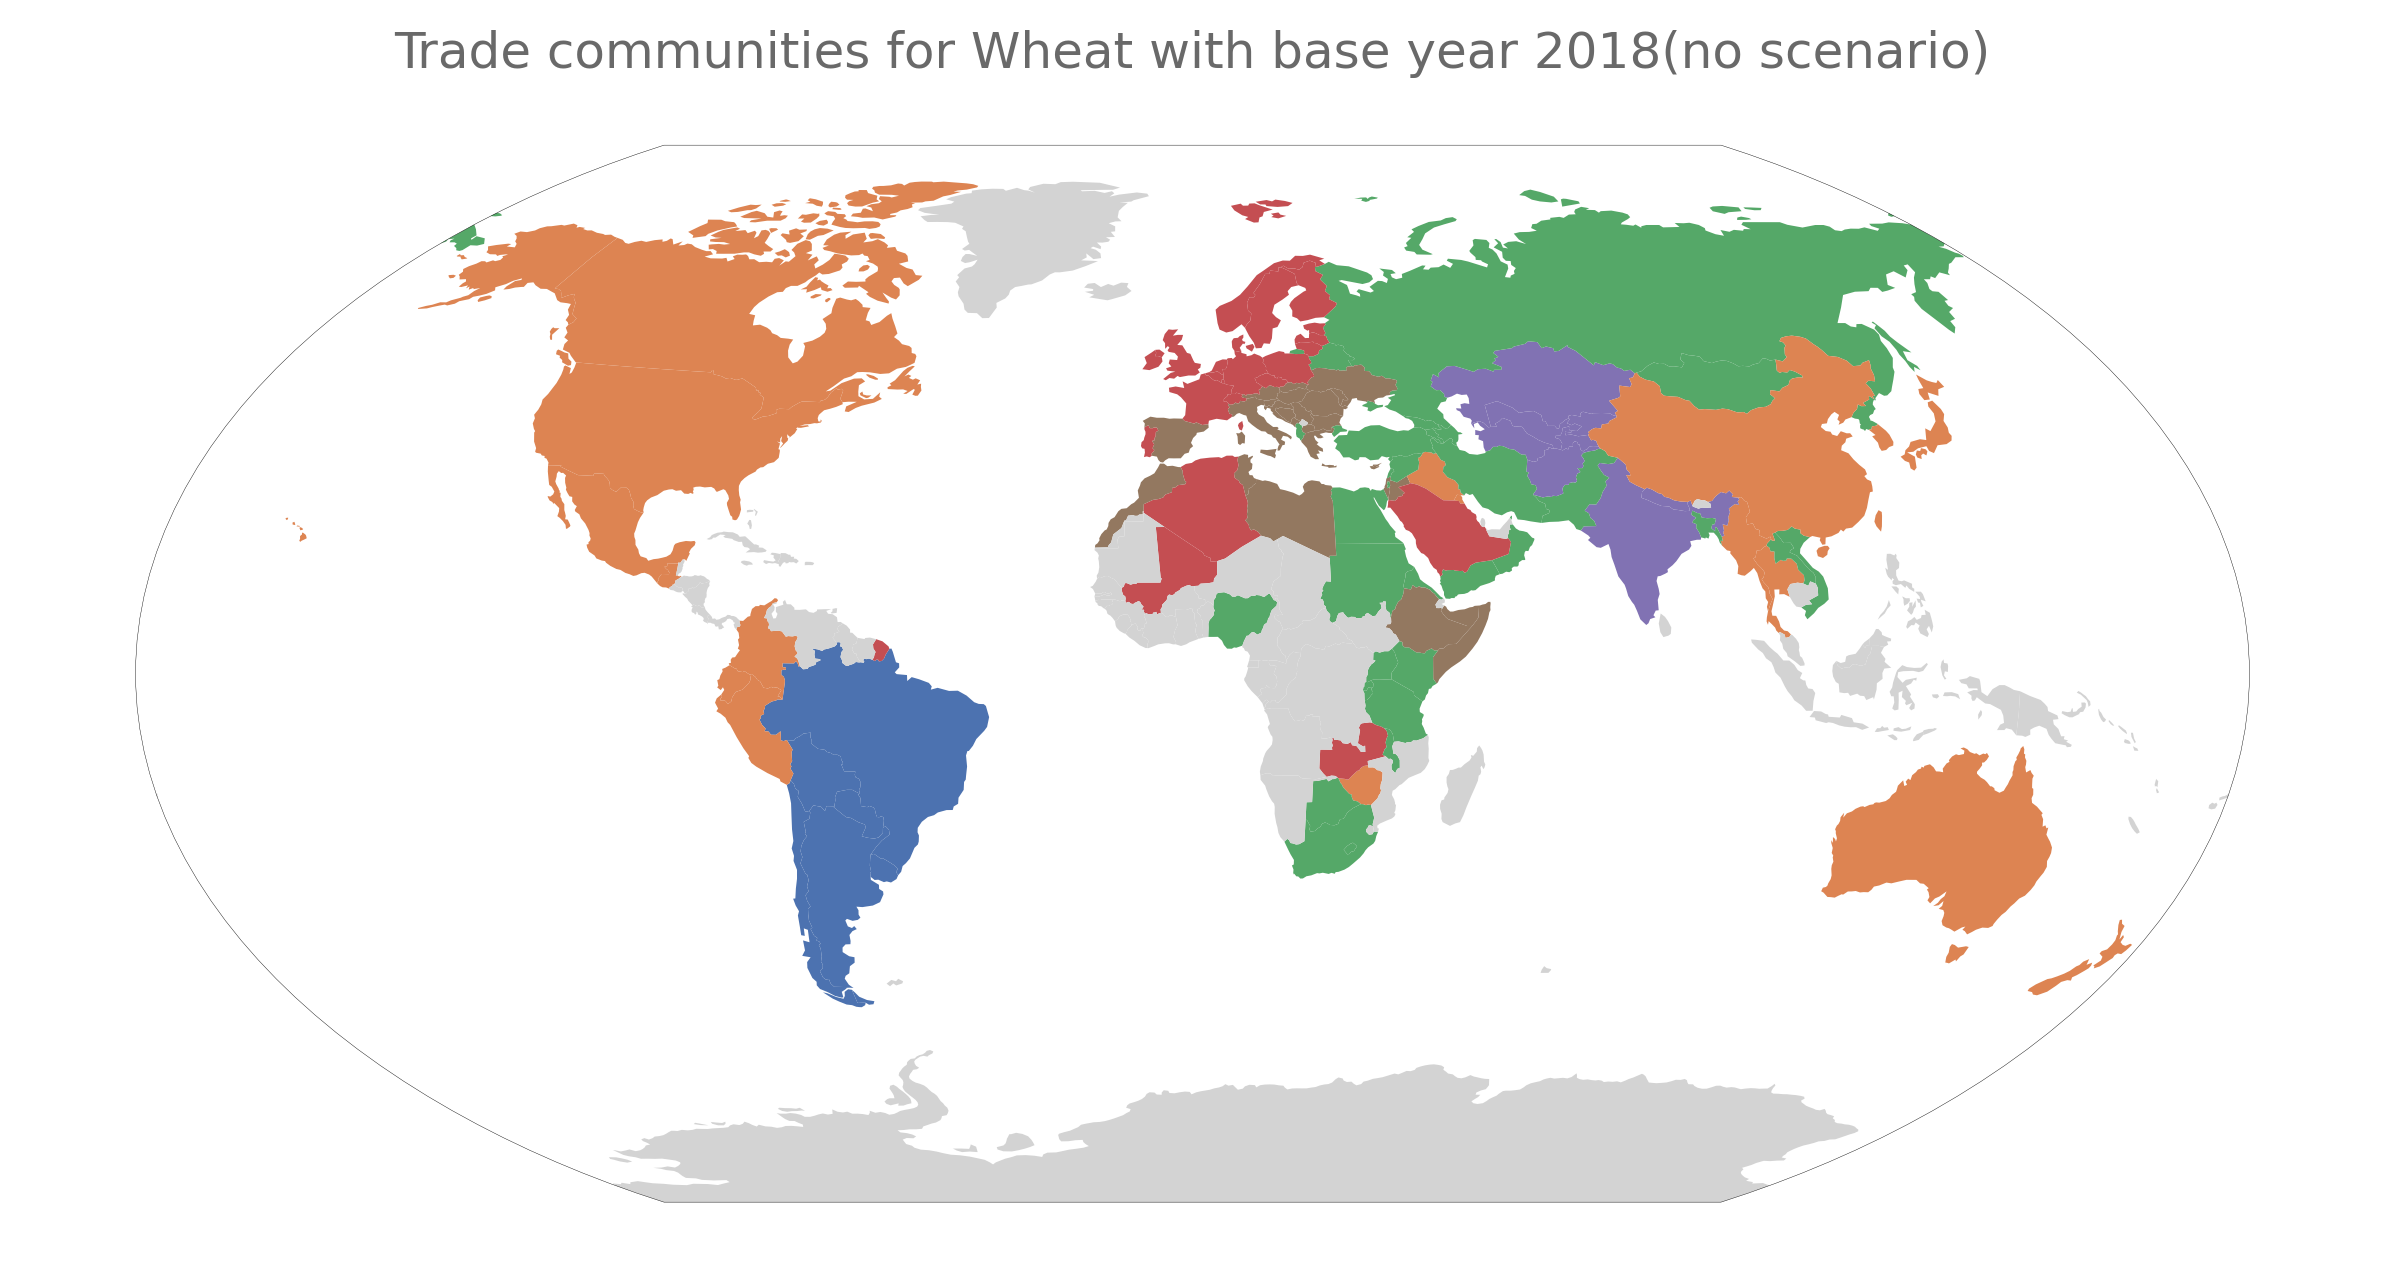
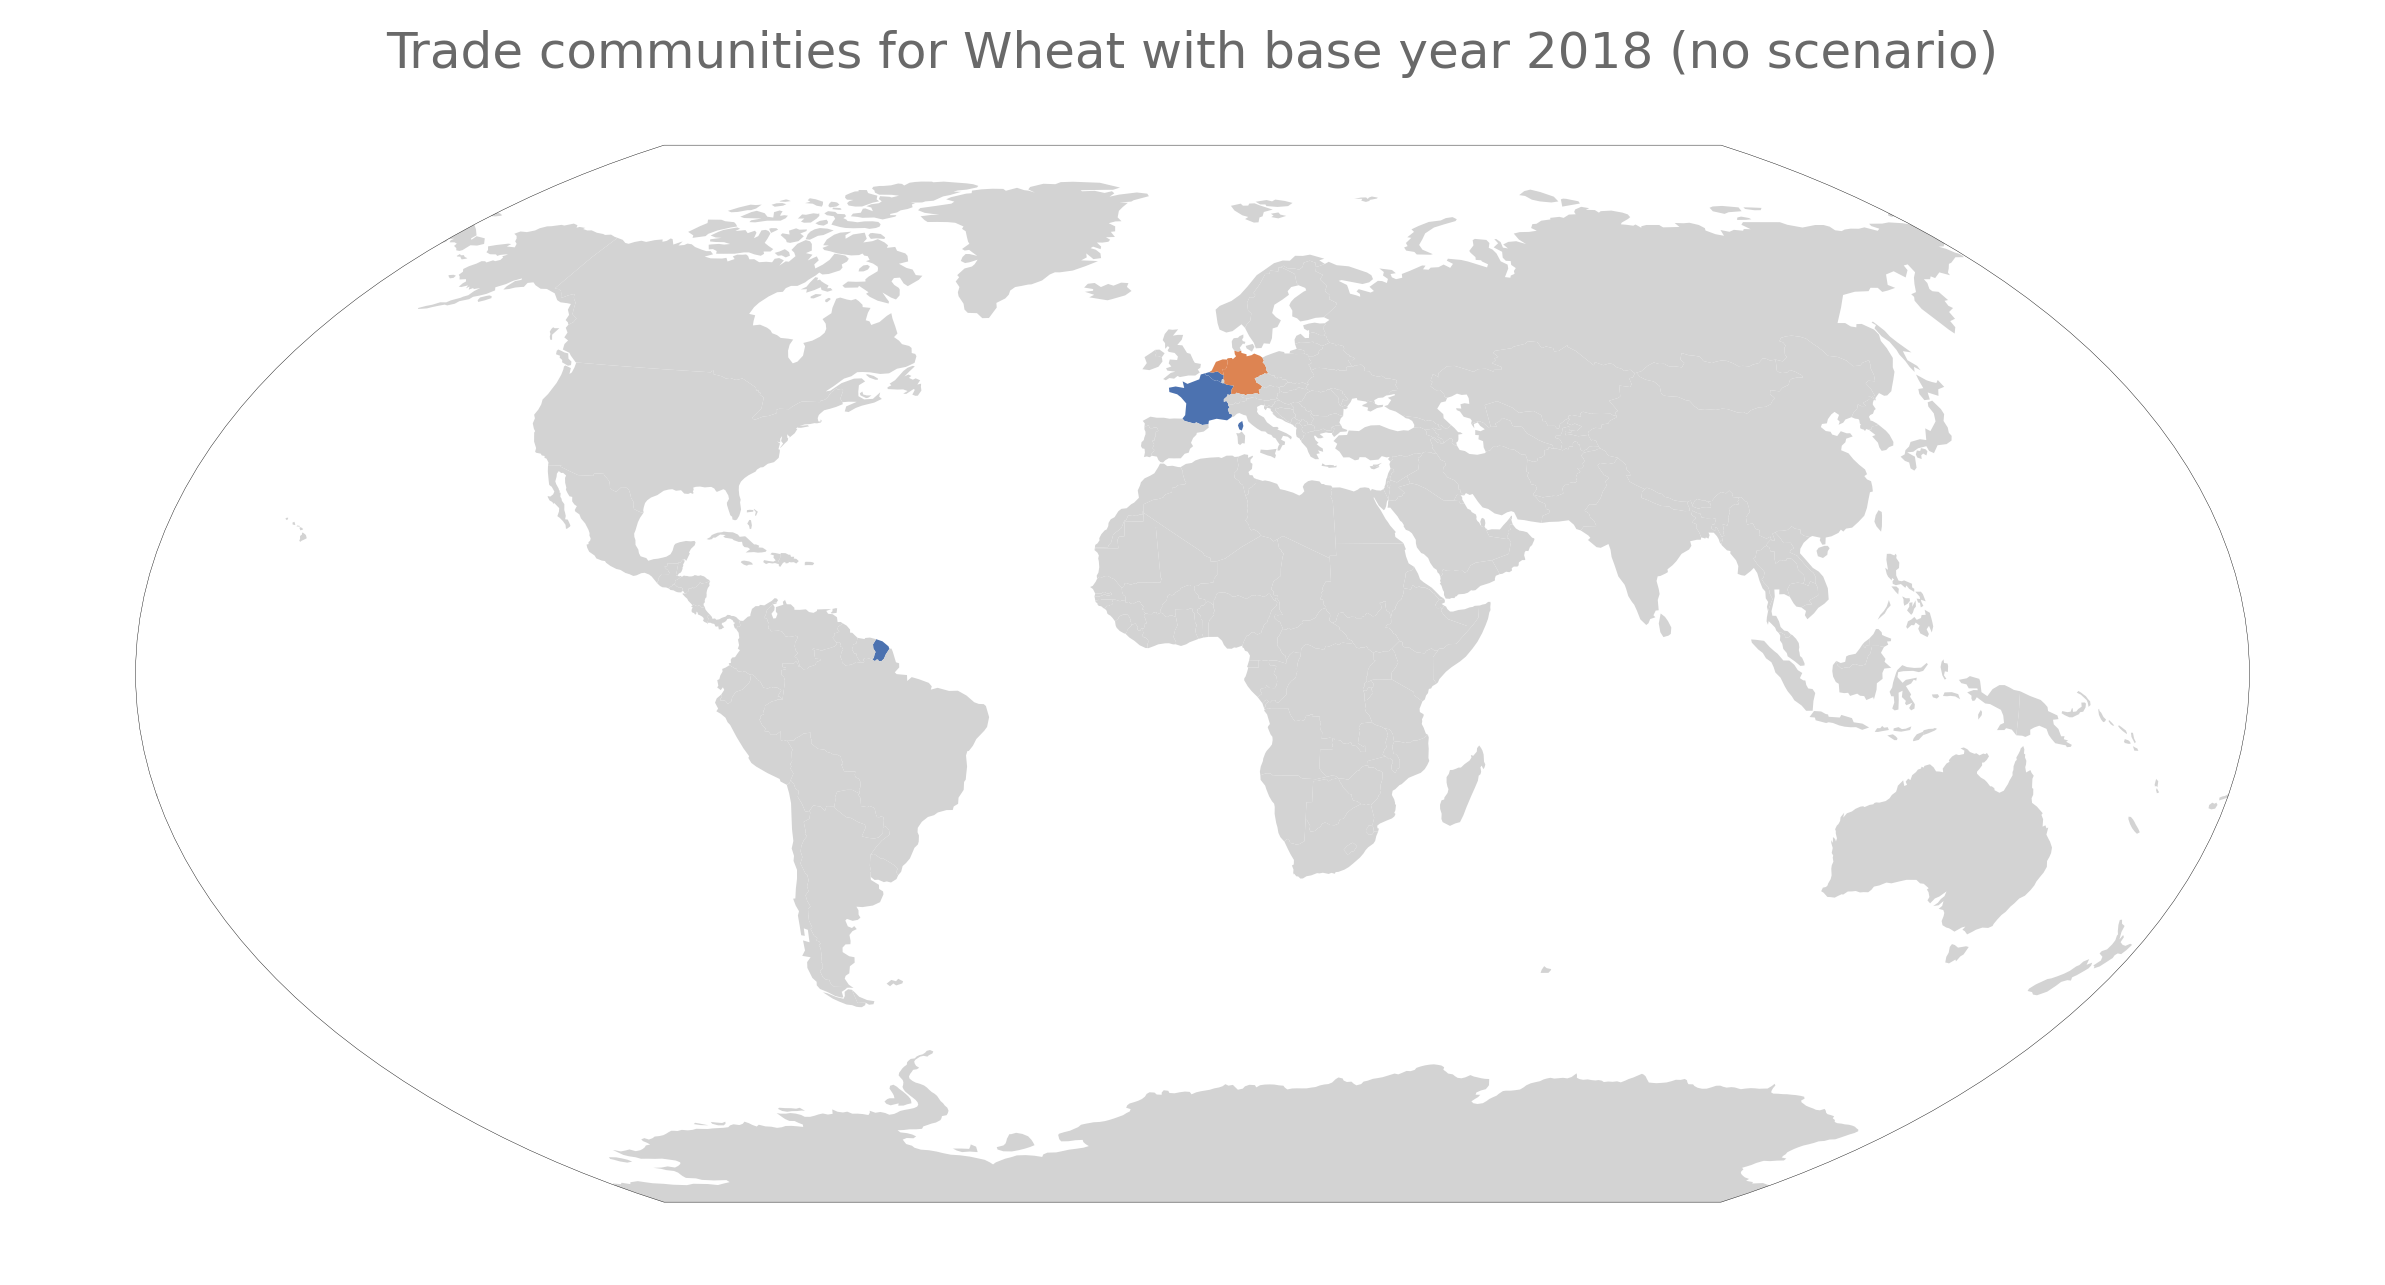
Added functionality to remove all countries except a subset.

diff --git a/src/model.py b/src/model.py
@@ -37,7 +37,13 @@ class PyTradeShifts:
         with_preprocessing (bool, optional): Whether to run the preprocessing
             or not.
         countries_to_remove (list, optional): A list of countries to remove
-
+            from the trade matrix. All other countries are kept.
+        countries_to_keep (list, optional): A list of countries to keep in
+            the trade matrix. All other countries are removed.
+        keep_singletons (bool, optional): Whether to keep the communities
+            with only one country or not. If False, these communities are
+            removed.
+        
     Returns:
         None
     """
@@ -53,6 +59,8 @@ class PyTradeShifts:
         scenario_file_name=None,
         with_preprocessing=False,
         countries_to_remove=None,
+        countries_to_keep=None,
+        keep_singletons=False,
     ):
         # Save the arguments
         self.crop = crop
@@ -62,6 +70,8 @@ class PyTradeShifts:
         self.scenario_name = scenario_name
         self.scenario_file_name = scenario_file_name
         self.countries_to_remove = countries_to_remove
+        self.countries_to_keep = countries_to_keep
+        self.keep_singletons = keep_singletons
         # State variables to keep track of the progress
         self.prebalanced = False
         self.reexports_corrected = False
@@ -176,6 +186,34 @@ class PyTradeShifts:
         self.trade_matrix = self.trade_matrix.loc[countries_to_keep, countries_to_keep]
         self.production_data = self.production_data.loc[countries_to_keep]
 
+    def remove_countries_except(self):
+        """
+        Removes all countries from the trade matrix and production data except for the ones
+        in self.countries_to_keep.
+
+        Arguments:
+            None
+
+        Returns:
+            None
+        """
+        assert self.trade_matrix is not None
+        assert self.production_data is not None
+        assert self.countries_to_keep is not None
+        assert isinstance(self.countries_to_keep, list)
+        # Convert the country names to the same format as in the trade matrix
+        cc = coco.CountryConverter()
+        self.countries_to_keep = cc.pandas_convert(
+            pd.Series(self.countries_to_keep), to="name_short"
+        ).to_list()
+
+        # Take the index of the trade matrix and production data and remove all the countries
+        # in self.countries_to_remove
+        countries_to_remove = [
+            country for country in self.trade_matrix.index if country in self.countries_to_keep
+        ]
+        self.trade_matrix = self.trade_matrix.loc[countries_to_remove, countries_to_remove]
+        self.production_data = self.production_data.loc[countries_to_remove]
 
     def remove_below_percentile(self):
         """
@@ -437,7 +475,7 @@ class PyTradeShifts:
 
         self.trade_graph = trade_graph
 
-    def find_trade_communities(self, keep_singletons=False):
+    def find_trade_communities(self):
         """
         Finds the trade communities in the trade graph using the Louvain algorithm.
 
@@ -453,7 +491,7 @@ class PyTradeShifts:
         trade_communities = nx.community.louvain_communities(self.trade_graph, seed=1)
         # Remove all the communities with only one country and print the names of the
         # communities that are removed
-        if keep_singletons:
+        if self.keep_singletons:
             print("Keeping communities with only one country.")
         else:
             for community in list(trade_communities):

diff --git a/tests/test_model.py b/tests/test_model.py
@@ -234,6 +234,42 @@ def test_removing_countries():
     assert Wheat2018.trade_matrix.shape[0] == shape_before[0] - 2
 
 
+def test_removing_countries_except():
+    """
+    Tests if removing countries except works
+    """
+    Wheat2018 = PyTradeShifts(
+        "Wheat", 2018, region="Global", testing=True, countries_to_keep=[
+            "Australia", "Bangladesh"
+        ]
+    )
+
+    # Load the data
+    Wheat2018.load_data()
+
+    # Remove countries with zero trade and zero production
+    Wheat2018.remove_net_zero_countries()
+
+    # Run the prebalancing
+    Wheat2018.prebalance()
+
+    # Reexport
+    Wheat2018.correct_reexports()
+
+    assert "Australia" in list(Wheat2018.trade_matrix.index)
+    assert "Bangladesh" in list(Wheat2018.trade_matrix.index)
+    assert "Germany" in list(Wheat2018.trade_matrix.index)
+
+    # Remove countries
+    Wheat2018.remove_countries_except()
+
+    assert "Australia" in list(Wheat2018.trade_matrix.index)
+    assert "Bangladesh" in list(Wheat2018.trade_matrix.index)
+    assert "Germany" not in list(Wheat2018.trade_matrix.index)
+
+    assert Wheat2018.trade_matrix.shape == (2, 2)
+
+
 
 def removing_low_trade_countries(region):
     """
